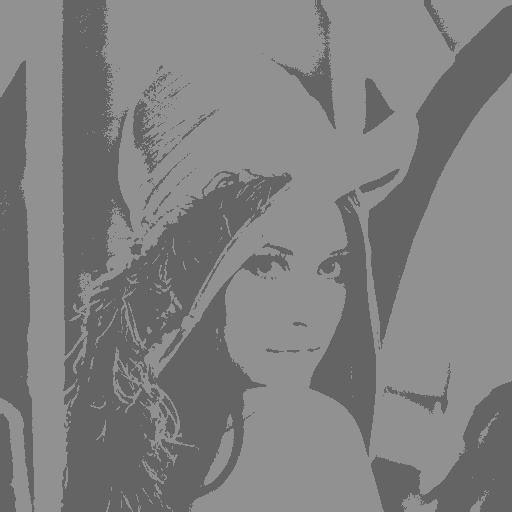
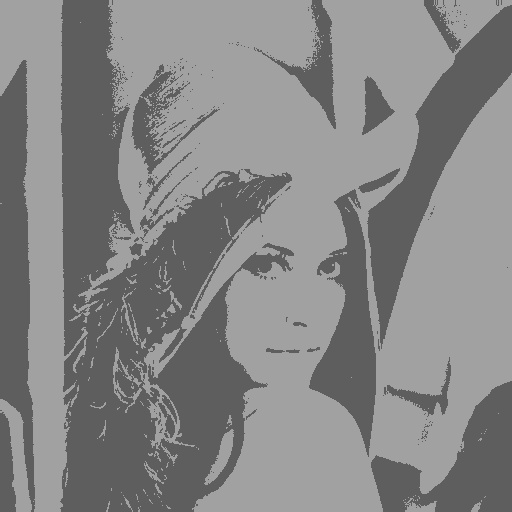
part 1 need to do all iterations

diff --git a/proj3/project3/task1.py b/proj3/project3/task1.py
@@ -37,7 +37,7 @@ def kmeans(img,k):
     # NOTE: max is 245
 
     cluster1 = 0
-    clusterb = 245
+    clusterb = 255
     avg1 = 0
     distsuma = 0
     count1 = 0
@@ -70,16 +70,16 @@ def kmeans(img,k):
                     distsumb = distsumb + abs(pixel - clusterb)
     if avg1 > 0:
         cluster1 = cluster1 + 1
-        if cluster1 > 245:
-            cluster1 = 245
+        if cluster1 > 255:
+            cluster1 = 255
     elif avg1 < 0:
         cluster1 = cluster1 - 1
         if cluster1 < 0:
             cluster1 = 0
     if avgb > 0:
         clusterb = clusterb + 1
-        if clusterb > 245:
-            clusterb = 245
+        if clusterb > 255:
+            clusterb = 255
     elif avgb < 0:
         clusterb = clusterb - 1
         if clusterb < 0:
@@ -87,25 +87,29 @@ def kmeans(img,k):
 
 
     centers, labels, bestsumdistance ,distsuma,distsumb = kmeans2(img,k,cluster1,clusterb,count1,countb,distsuma,distsumb)
+    bestcenters = centers
+    bestlabels = labels
     iteratecount = 0
     print(bestsumdistance)
-    while iteratecount < 25:
+    while iteratecount < 125:
         iteratecount = iteratecount + 1
-        cluster1 = cluster1 + 4
-        clusterb = clusterb - 4
-        if cluster1 >= 245:
-            cluster1 = 244
+        cluster1 = cluster1 + 1
+        clusterb = clusterb - 1
+        if cluster1 >= 255:
+            cluster1 = 255
         if clusterb < 0:
             clusterb = 0
-        if clusterb >= 245:
-            clusterb = 244
+        if clusterb >= 255:
+            clusterb = 255
         if cluster1 < 0:
             cluster1 = 0
         centers, labels, newsumdistance ,distsuma,distsumb = kmeans2(img,k,cluster1,clusterb,count1,countb,distsuma,distsumb)
         if newsumdistance < bestsumdistance:
             bestsumdistance = newsumdistance
+            bestcenters = centers
+            bestlabels = labels
 
-    return (centers, labels, bestsumdistance)
+    return (bestcenters, bestlabels, bestsumdistance)
 
 def kmeans2(img,k,cluster1,clusterb,lastcount1,lastcountb,distsuma,distsumb):
 
@@ -131,32 +135,32 @@ def kmeans2(img,k,cluster1,clusterb,lastcount1,lastcountb,distsuma,distsumb):
                 distsuma = distsuma + abs(pixel - cluster1)
     if avg1 > 0:
         cluster1 = cluster1 + 1
-        if cluster1 > 245:
-            cluster1 = 245
+        if cluster1 > 255:
+            cluster1 = 255
     elif avg1 < 0:
         cluster1 = cluster1 - 1
         if cluster1 < 0:
             cluster1 = 0
     if avgb > 0:
         clusterb = clusterb + 1
-        if clusterb > 245:
-            clusterb = 245
+        if clusterb > 255:
+            clusterb = 255
     elif avgb < 0:
         clusterb = clusterb - 1
         if clusterb < 0:
             clusterb = 0
     if avg1 > 0:
         cluster1 = cluster1 + 1
-        if cluster1 > 245:
-            cluster1 = 245
+        if cluster1 > 255:
+            cluster1 = 255
     elif avg1 < 0:
         cluster1 = cluster1 - 1
         if cluster1 < 0:
             cluster1 = 0
     if avgb > 0:
         clusterb = clusterb + 1
-        if clusterb > 245:
-            clusterb = 245
+        if clusterb > 255:
+            clusterb = 255
     elif avgb < 0:
         clusterb = clusterb - 1
         if clusterb < 0:
